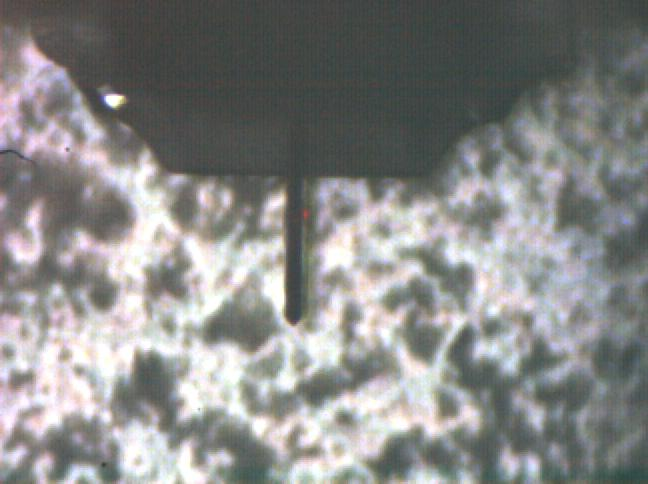
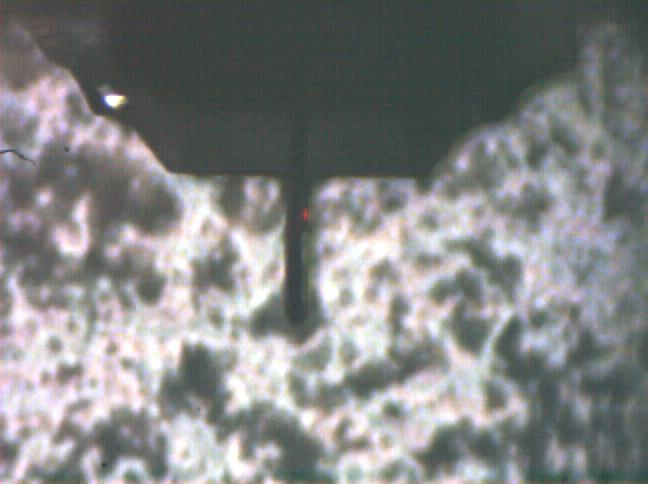
bugfix for "onSkincell"

diff --git a/auto-AFM.py b/auto-AFM.py
@@ -149,7 +149,7 @@ def saveImage(): #Highly sensitive to screen sizing //TODO
 images = 12 #Number of images to take
 move_distance = (0, 0)
 last_move_distance = (0, 0)
-calibration_factor_x = 0.0085  # seconds/ pixel # Scale of pixels to distance movement
+calibration_factor_x = 0.0088  # seconds/ pixel # Scale of pixels to distance movement
 calibration_factor_y = 0.0113  # Scale of pixels to distance movement
 backlash_x_constant = 1.6
 backlash_y_constant = 2.6

diff --git a/computervision_new.py b/computervision_new.py
@@ -96,7 +96,6 @@ def labelCurrentImage():
 
 
 def onSkincell(image):
-    image = image[top_crop:, :]
 
     cropped_image = image[310:335, 270:325]  # crops like (y1:y2, x1:x2)
     gray_cropped = cv2.cvtColor(cropped_image, cv2.COLOR_BGR2GRAY)
